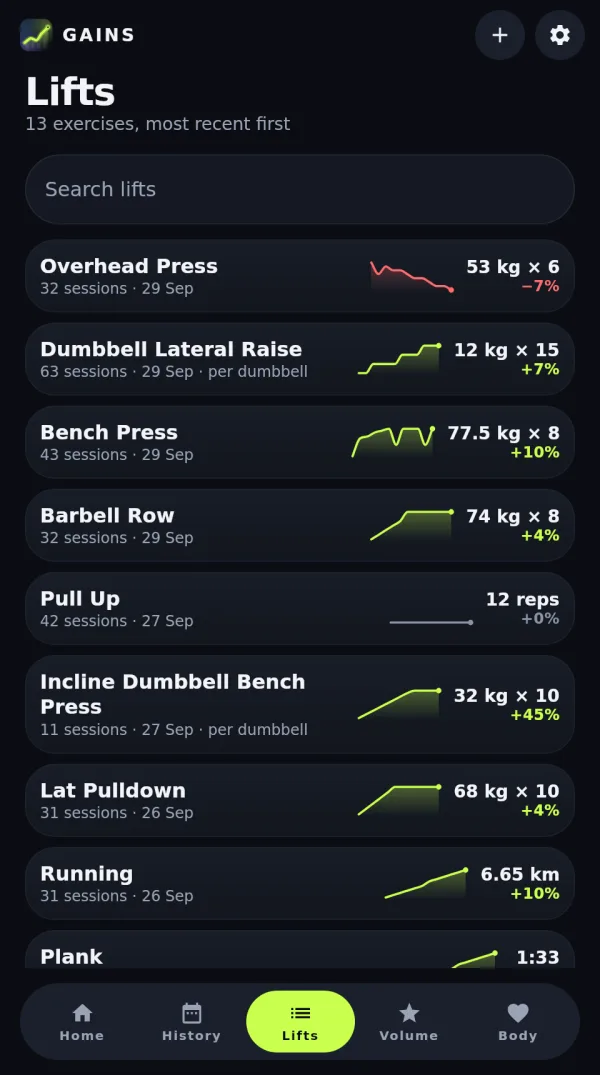
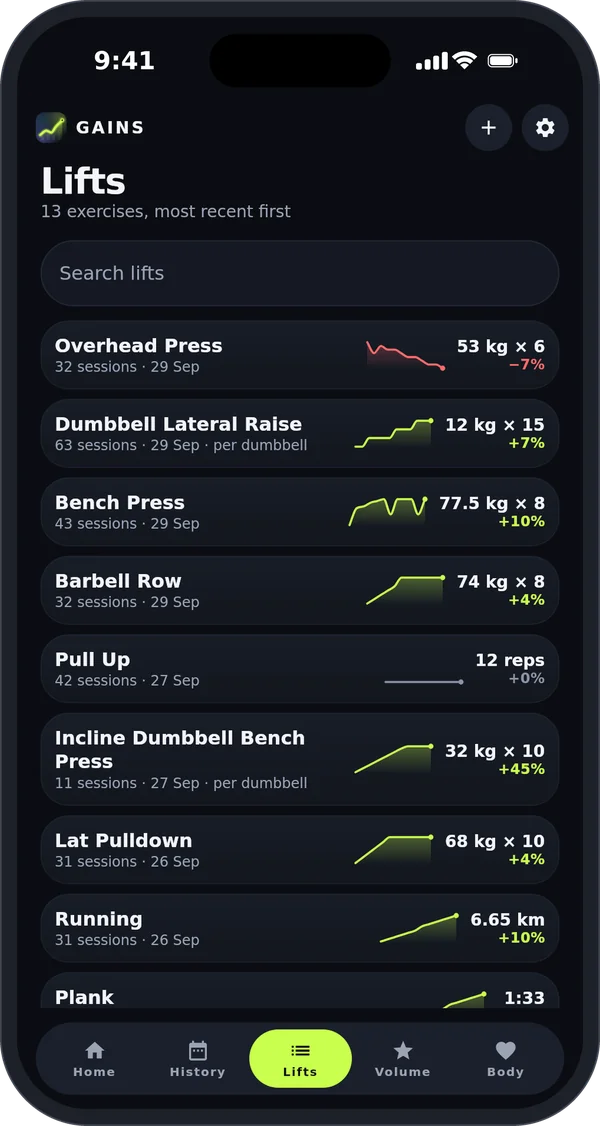
App Store screenshots drawn here: a phone, a status bar and a headline
The site's pictures lost their App Store look when item 39 swapped them
for plain renders of the sample export, and the store screenshots were
left for the owner to replace. tools/store_screenshots.py puts that look
back with nothing that isn't Gains' own: it draws a phone with a 9:41
status bar around each render, with a headline and a green glow above,
and writes

- docs/store/*.png: six App Store screenshots, 1290 × 2796
- site/img/shot-*.webp: five of them at 600 wide for "A look inside"
- site/img/hero.webp: the Lifts screen in the phone alone, transparent

The Screenshots workflow runs it in place of the cwebp loop, so the store
and the site follow the app. The hero drops its CSS outline now that it
has a frame; the site's sizes follow the new images, and a test checks
them against the script's table.

Claude-Session: https://claude.ai/code/session_011BBBjLsXgchwYzGC1c6JQc

diff --git a/site/index.html b/site/index.html
@@ -41,8 +41,9 @@
         </div>
         <p class="note">The beta needs iOS 16 or later and Apple's TestFlight app.</p>
       </div>
-      <!-- The pictures are the app rendered from samples/liftoff-export.csv by the Screenshots workflow, which writes them here. -->
-      <img class="hero-phone" src="/img/hero.webp" alt="The Lifts screen: every lift with its trend and % change" width="600" height="1075">
+      <!-- The pictures are the app rendered from samples/liftoff-export.csv by the Screenshots workflow,
+           framed by tools/store_screenshots.py, which writes them here. -->
+      <img class="hero-phone" src="/img/hero.webp" alt="The Lifts screen: every lift with its trend and % change" width="600" height="1126">
     </div>
 
     <section>
@@ -69,11 +70,11 @@
       <h2>A look inside</h2>
       <p class="lead">From spotting a stall to logging the next set.</p>
       <ul class="shots">
-        <li><img src="/img/shot-home.webp" alt="Progress: the week streak, your level and what's moving" width="600" height="1075" loading="lazy"></li>
-        <li><img src="/img/shot-programs.webp" alt="Programs: GZCLP, 5/3/1 for Beginners and more, best fit first" width="600" height="1075" loading="lazy"></li>
-        <li><img src="/img/shot-workout.webp" alt="A timed workout: warm-ups, working sets and the rest timer on one card" width="600" height="1075" loading="lazy"></li>
-        <li><img src="/img/shot-volume.webp" alt="Volume on the body: working sets per muscle group, per week" width="600" height="1075" loading="lazy"></li>
-        <li><img src="/img/shot-summary.webp" alt="The summary after a workout: records, score and level" width="600" height="1075" loading="lazy"></li>
+        <li><img src="/img/shot-home.webp" alt="Progress: the week streak, your level and what's moving" width="600" height="1300" loading="lazy"></li>
+        <li><img src="/img/shot-programs.webp" alt="Programs: GZCLP, 5/3/1 for Beginners and more, best fit first" width="600" height="1300" loading="lazy"></li>
+        <li><img src="/img/shot-workout.webp" alt="A timed workout: warm-ups, working sets and the rest timer on one card" width="600" height="1300" loading="lazy"></li>
+        <li><img src="/img/shot-volume.webp" alt="Volume on the body: working sets per muscle group, per week" width="600" height="1300" loading="lazy"></li>
+        <li><img src="/img/shot-summary.webp" alt="The summary after a workout: records, score and level" width="600" height="1300" loading="lazy"></li>
       </ul>
     </section>
 

diff --git a/site/style.css b/site/style.css
@@ -122,8 +122,8 @@ footer .license { flex-basis: 100%; margin: 0; }
 }
 .hero h1 span { color: var(--accent); }
 .hero p { color: var(--muted); font-size: 19px; margin: 20px 0 28px; }
-/* A plain render of the app's screen, rounded and outlined like the shots below: no device frame. */
-.hero .hero-phone { justify-self: center; max-width: 300px; border-radius: 28px; border: 1px solid var(--outline); }
+/* The app's screen in a phone drawn by tools/store_screenshots.py, on a transparent background. */
+.hero .hero-phone { justify-self: center; max-width: 300px; }
 
 .eyebrow {
   margin: 0 0 12px;

diff --git a/tools/store_screenshots.py b/tools/store_screenshots.py
@@ -1,0 +1,195 @@
+#!/usr/bin/env python3
+"""Turn the app's renders into App Store screenshots and the site's pictures.
+
+Run by the Screenshots workflow after ScreenshotTest, from the repository root:
+
+  python3 tools/store_screenshots.py      (needs Pillow: pip install pillow, or apt python3-pil)
+
+It reads docs/screenshots (the app rendered from samples/liftoff-export.csv) and writes:
+
+  docs/store/*.png       App Store screenshots, 1290 × 2796 (the 6.7" and 6.9" iPhone size):
+                         a headline, a green glow and the screen in a phone with a status bar.
+  site/img/shot-*.webp   Five of them at 600 wide, for the site's "A look inside".
+  site/img/hero.webp     The Lifts screen in the phone alone, on a transparent background.
+
+Everything here is drawn by this script, the phone and its status bar included, so the pictures
+are Gains' own and show only the sample export (docs/launch-plan.md, item 39). The type is
+DejaVu Sans, the face the app itself renders in on the Linux runner.
+"""
+
+import pathlib
+import sys
+
+ROOT = pathlib.Path(__file__).resolve().parent.parent
+RENDERS = ROOT / "docs/screenshots"
+STORE = ROOT / "docs/store"
+SITE_IMG = ROOT / "site/img"
+
+# (store file, render, headline in white, headline in volt, subtitle, site file or None)
+SHOTS = [
+    ("01-lifts", "05-lifts", "Every lift,", "trended.",
+     "Best set, sessions and % change at a glance.", None),
+    ("02-progress", "03-home", "Keep the", "streak going.",
+     "Your week, your level and what's moving.", "shot-home"),
+    ("03-workout", "14-program-day", "Tap. Rest.", "Repeat.",
+     "Warm-ups, working sets and the rest timer on one card.", "shot-workout"),
+    ("04-programs", "12-programs", "A program", "that fits.",
+     "GZCLP, 5/3/1 for Beginners and more, best fit first.", "shot-programs"),
+    ("05-volume", "07-volume", "Volume on", "the body.",
+     "Working sets per muscle group, per week.", "shot-volume"),
+    ("06-summary", "17-summary", "Every workout,", "scored.",
+     "Records, points and your level when you finish.", "shot-summary"),
+]
+HERO_RENDER = "05-lifts"
+
+WIDTH, HEIGHT = 1290, 2796
+SITE_WIDTH = 600
+
+BACKGROUND = (11, 13, 18)          # the app's dark background
+VOLT = (200, 255, 77)              # GainsColors volt, dark theme
+MUTED = (138, 147, 166)            # GainsColors muted
+FRAME = (30, 33, 41)
+FRAME_EDGE = (62, 67, 79)
+WHITE = (255, 255, 255)
+
+FONT_DIR = pathlib.Path("/usr/share/fonts/truetype/dejavu")
+BOLD = FONT_DIR / "DejaVuSans-Bold.ttf"
+REGULAR = FONT_DIR / "DejaVuSans.ttf"
+
+MARGIN = 96           # left edge of the headline
+HEADLINE_TOP = 200
+PHONE_TOP = 660
+PHONE_WIDTH = 1060    # outside of the frame
+SS = 3                # drawn this many times larger, then scaled down: smooth edges
+
+
+def font(path, size):
+    from PIL import ImageFont
+    return ImageFont.truetype(str(path), size)
+
+
+def fitted(path, size, text, width):
+    """The font at `size`, or smaller until `text` fits in `width`."""
+    while True:
+        f = font(path, size)
+        if f.getlength(text) <= width or size <= 12:
+            return f
+        size -= 2
+
+
+def phone(render):
+    """`render` on the screen of a phone, with a status bar above it. RGBA, PHONE_WIDTH wide."""
+    from PIL import Image, ImageDraw
+
+    bezel = 30
+    w = PHONE_WIDTH - 2 * bezel                   # the screen
+    shown = render.convert("RGB").resize((w, round(render.height * w / render.width)), Image.LANCZOS)
+    bar = round(0.137 * w)                        # 54 pt of a 393 pt wide iPhone
+    h = bar + shown.height
+    pw, ph = PHONE_WIDTH, h + 2 * bezel
+    outer = round(0.155 * w)
+    inner = outer - bezel
+
+    def s(v):
+        return round(v * SS)
+
+    art = Image.new("RGBA", (s(pw), s(ph)), (0, 0, 0, 0))
+    d = ImageDraw.Draw(art)
+    d.rounded_rectangle((0, 0, s(pw) - 1, s(ph) - 1), s(outer), fill=FRAME_EDGE)
+    d.rounded_rectangle((s(3), s(3), s(pw - 3) - 1, s(ph - 3) - 1), s(outer - 3), fill=FRAME)
+    d.rounded_rectangle((s(bezel), s(bezel), s(bezel + w) - 1, s(bezel + h) - 1), s(inner), fill=BACKGROUND + (255,))
+
+    # Dynamic Island, then the status bar either side of it: 9:41, signal, Wi-Fi, battery.
+    top = bezel + 0.03 * w
+    island_w, island_h = 0.32 * w, 0.094 * w
+    cx = bezel + w / 2
+    d.rounded_rectangle((s(cx - island_w / 2), s(top), s(cx + island_w / 2), s(top + island_h)), s(island_h / 2), fill=(0, 0, 0, 255))
+    mid = top + island_h / 2
+
+    clock = font(BOLD, s(0.044 * w))
+    d.text((s(bezel + 0.19 * w), s(mid)), "9:41", font=clock, fill=WHITE, anchor="mm")
+
+    x = bezel + 0.705 * w                         # signal: four bars, rising
+    unit = 0.0105 * w
+    for i in range(4):
+        bh = unit * (1.1 + 0.62 * i)
+        d.rounded_rectangle((s(x), s(mid + 1.5 * unit - bh), s(x + unit * 0.95), s(mid + 1.5 * unit)), s(unit * 0.3), fill=WHITE)
+        x += unit * 1.45
+    x += unit * 0.9                               # Wi-Fi: three arcs and a dot, fanning up
+    wx, wy = x + 1.45 * unit, mid + 1.45 * unit
+    for i, r in enumerate((3.0, 2.0)):
+        rr = r * unit
+        d.arc((s(wx - rr), s(wy - rr), s(wx + rr), s(wy + rr)), 225, 315, fill=WHITE, width=s(unit * 0.72))
+    d.pieslice((s(wx - unit), s(wy - unit), s(wx + unit), s(wy + unit)), 225, 315, fill=WHITE)
+    x = wx + 3.0 * unit + unit * 0.9              # battery: outline, charge, nub
+    bw, bh = 4.4 * unit, 2.2 * unit
+    d.rounded_rectangle((s(x), s(mid - bh / 2), s(x + bw), s(mid + bh / 2)), s(unit * 0.7), outline=WHITE + (140,), width=s(unit * 0.2))
+    pad = unit * 0.38
+    d.rounded_rectangle((s(x + pad), s(mid - bh / 2 + pad), s(x + bw - pad), s(mid + bh / 2 - pad)), s(unit * 0.4), fill=WHITE)
+    d.rounded_rectangle((s(x + bw + unit * 0.25), s(mid - unit * 0.4), s(x + bw + unit * 0.6), s(mid + unit * 0.4)), s(unit * 0.2), fill=WHITE + (140,))
+
+    frame = art.resize((pw, ph), Image.LANCZOS)
+
+    # The render fills the screen below the bar, its bottom corners rounded with the screen's.
+    mask = Image.new("L", (s(pw), s(ph)), 0)
+    ImageDraw.Draw(mask).rounded_rectangle((s(bezel), s(bezel), s(bezel + w) - 1, s(bezel + h) - 1), s(inner), fill=255)
+    mask = mask.resize((pw, ph), Image.LANCZOS).crop((bezel, bezel + bar, bezel + w, bezel + h))
+    frame.paste(shown, (bezel, bezel + bar), mask)
+    return frame
+
+
+def glow(size, center, radius, color, strength):
+    """A soft round light of `color`, as an RGBA layer."""
+    from PIL import Image, ImageDraw, ImageFilter
+
+    small = 8                                     # blur a small image and scale it up: fast and smooth
+    layer = Image.new("L", (size[0] // small, size[1] // small), 0)
+    cx, cy, r = center[0] / small, center[1] / small, radius / small
+    ImageDraw.Draw(layer).ellipse((cx - r, cy - r * 0.6, cx + r, cy + r * 0.6), fill=round(255 * strength))
+    layer = layer.filter(ImageFilter.GaussianBlur(r * 0.55)).resize(size, Image.BICUBIC)
+    out = Image.new("RGBA", size, color + (0,))
+    out.putalpha(layer)
+    return out
+
+
+def store_shot(render, white, volt, subtitle):
+    from PIL import Image, ImageDraw
+
+    canvas = Image.new("RGBA", (WIDTH, HEIGHT), BACKGROUND + (255,))
+    canvas.alpha_composite(glow(canvas.size, (WIDTH * 0.45, PHONE_TOP - 60), 820, VOLT, 0.17))
+    d = ImageDraw.Draw(canvas)
+    text_width = WIDTH - 2 * MARGIN
+    headline = fitted(BOLD, 128, max(white, volt, key=len), text_width)
+    line = round(headline.size * 1.1)
+    d.text((MARGIN, HEADLINE_TOP), white, font=headline, fill=WHITE)
+    d.text((MARGIN, HEADLINE_TOP + line), volt, font=headline, fill=VOLT)
+    small = fitted(REGULAR, 46, subtitle, text_width)
+    d.text((MARGIN, HEADLINE_TOP + 2 * line + 40), subtitle, font=small, fill=MUTED)
+
+    device = phone(render)
+    canvas.alpha_composite(device, ((WIDTH - device.width) // 2, PHONE_TOP))
+    return canvas.convert("RGB")
+
+
+def main():
+    from PIL import Image
+
+    for path in (BOLD, REGULAR):
+        if not path.exists():
+            sys.exit(f"{path} is missing: install fonts-dejavu-core")
+    STORE.mkdir(parents=True, exist_ok=True)
+    for name, render, white, volt, subtitle, site in SHOTS:
+        shot = store_shot(Image.open(RENDERS / f"{render}.png"), white, volt, subtitle)
+        shot.save(STORE / f"{name}.png", optimize=True)
+        if site:
+            small = shot.resize((SITE_WIDTH, round(HEIGHT * SITE_WIDTH / WIDTH)), Image.LANCZOS)
+            small.save(SITE_IMG / f"{site}.webp", quality=82, method=6)
+        print(f"{name}: {render}" + (f", {site}" if site else ""))
+    hero = phone(Image.open(RENDERS / f"{HERO_RENDER}.png"))
+    hero = hero.resize((SITE_WIDTH, round(hero.height * SITE_WIDTH / hero.width)), Image.LANCZOS)
+    hero.save(SITE_IMG / "hero.webp", quality=85, method=6)
+    print(f"hero: {HERO_RENDER}, {hero.width} × {hero.height}")
+
+
+if __name__ == "__main__":
+    main()

diff --git a/tools/test_store_screenshots.py b/tools/test_store_screenshots.py
@@ -1,0 +1,57 @@
+#!/usr/bin/env python3
+"""Tests for tools/store_screenshots.py: what it reads and what the site expects of it.
+
+Run from the repository root:  python3 -m unittest discover -s tools -p 'test_*.py'
+
+Drawing needs Pillow, which this job doesn't install, so these check the table the drawing
+works from: every render it names exists, and site/index.html asks for the files it writes
+at the sizes it writes them.
+"""
+
+import pathlib
+import re
+import sys
+import unittest
+
+sys.path.insert(0, str(pathlib.Path(__file__).resolve().parent))
+
+import store_screenshots as shots
+
+ROOT = pathlib.Path(__file__).resolve().parent.parent
+INDEX = (ROOT / "site/index.html").read_text()
+
+
+def img_size(name):
+    m = re.search(rf'src="/img/{re.escape(name)}\.webp"[^>]*width="(\d+)" height="(\d+)"', INDEX)
+    return (int(m.group(1)), int(m.group(2))) if m else None
+
+
+class Table(unittest.TestCase):
+    def test_every_render_is_one_the_screenshot_test_writes(self):
+        for render in [s[1] for s in shots.SHOTS] + [shots.HERO_RENDER]:
+            self.assertTrue((shots.RENDERS / f"{render}.png").exists(), render)
+
+    def test_store_names_are_unique_and_ordered(self):
+        names = [s[0] for s in shots.SHOTS]
+        self.assertEqual(names, sorted(set(names)))
+
+    def test_store_size_is_apples_6_9_inch_portrait(self):
+        self.assertEqual((shots.WIDTH, shots.HEIGHT), (1290, 2796))
+
+
+class Site(unittest.TestCase):
+    def test_the_site_shows_every_shot_at_the_size_written(self):
+        height = round(shots.HEIGHT * shots.SITE_WIDTH / shots.WIDTH)
+        for site in [s[5] for s in shots.SHOTS if s[5]]:
+            self.assertEqual(img_size(site), (shots.SITE_WIDTH, height), site)
+
+    def test_the_site_shows_no_shot_the_script_does_not_write(self):
+        written = {s[5] for s in shots.SHOTS if s[5]}
+        self.assertEqual(set(re.findall(r'src="/img/(shot-[\w-]+)\.webp"', INDEX)), written)
+
+    def test_the_hero_is_the_width_written(self):
+        self.assertEqual(img_size("hero")[0], shots.SITE_WIDTH)
+
+
+if __name__ == "__main__":
+    unittest.main()

diff --git a/docs/launch-plan.md b/docs/launch-plan.md
@@ -1780,9 +1780,11 @@ make this more than adding a file:
      sample export. The Screenshots workflow renders the same screens.
      *Decided:* regenerate them from the sample export, with a frame made here or plain
      screenshots, and replace the store screenshots the same way.
-     *Done:* plain screenshots. The Screenshots workflow now also writes six of its renders to
-     `site/img` as WebP (the hero and five shots), so the site's pictures follow the app. The
-     store screenshots are the owner's to replace.
+     *Done:* a frame made here. The Screenshots workflow runs `tools/store_screenshots.py` on its
+     renders: six App Store screenshots in `docs/store` (1290 × 2796, a headline over the screen
+     in a drawn phone with a status bar), five of them at 600 wide as the site's shots, and the
+     Lifts screen in the phone alone as the hero, so the site's pictures follow the app.
+     Uploading `docs/store` to App Store Connect in place of the old ones is the owner's.
    - **History. Owner decides.** The repository is public, so the export and the fixtures are
      already in its history, and in any clone or fork. Deleting them from `main` doesn't remove
      them from past commits. The options:
